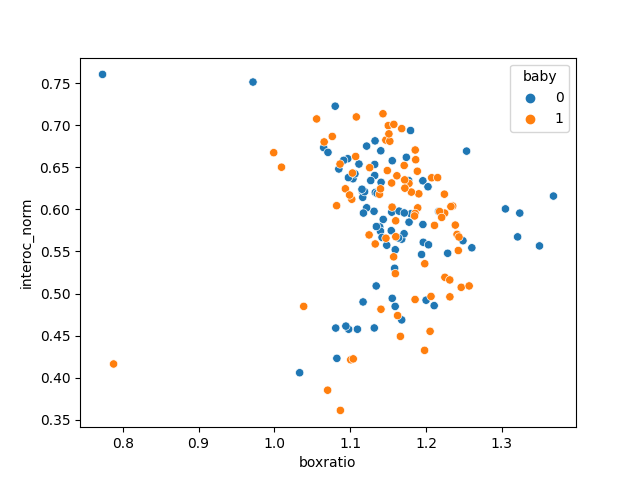
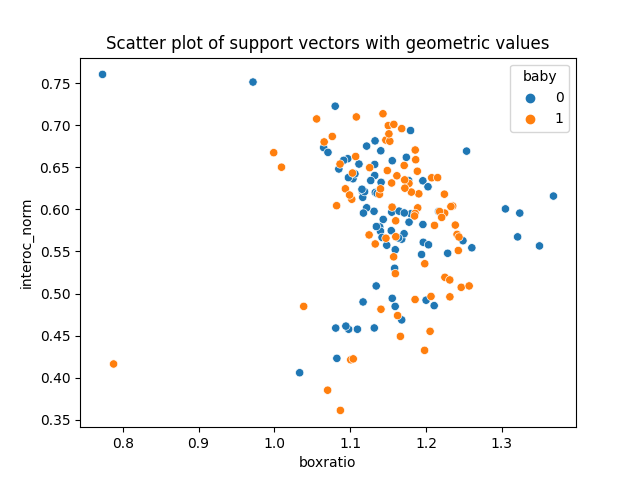
more scatter plots and classification reports
More scatter plots with different hue and add a meshgrid. Add more classification report.

Changed region(s): [[0.1562, 0.0625, 0.8438, 0.125]]

diff --git a/src/util/zw_svc_geometric_value.py b/src/util/zw_svc_geometric_value.py
@@ -6,6 +6,7 @@ from sklearn.svm import SVC
 from sklearn.model_selection import GridSearchCV, train_test_split
 import seaborn as sns
 import matplotlib.pyplot as plt
+import matplotlib.ticker as mtick
 
 # Get data
 df = pd.read_csv('data/merged_landmarks.csv')
@@ -21,8 +22,8 @@ svc_geometric = SVC(class_weight='balanced')
 model_geometric = make_pipeline(svc_geometric)
 
 param_grid_geometric = {'svc__C': [50, 100, 500, 1000],
-					   'svc__gamma': [0.05, 0.1, 0.5, 1, 5],
-					   'svc__kernel': ['rbf','linear', 'poly']}
+						'svc__gamma': [0.05, 0.1, 0.5, 1, 5],
+						'svc__kernel': ['rbf', 'linear', 'poly']}
 
 grid_geometric = GridSearchCV(model_geometric, param_grid_geometric, return_train_score=True, n_jobs=5, refit=True)
 grid_geometric.fit(X_train, y_train)
@@ -59,34 +60,53 @@ n_Support_vector = svc_trained.n_support_
 print("Number of support vector: ", n_Support_vector)
 Support_vector_index = svc_trained.support_
 
-
 # Plot geometric values and support vectors
 X_geometric['baby'] = y
 sns.scatterplot(data=X_geometric, x='boxratio', y='interoc_norm',
 				hue='baby',
 				legend=True)
+plt.title('Scatter plot of all samples with geometric values')
 plt.savefig('figs/Geometric_values')
 plt.show()
 
+# Plot predict vs true
+X_geometric['pre'] = svc_trained.predict(X_geometric.loc[:, ['boxratio', 'interoc_norm']])
+sns.scatterplot(data=X_geometric, x='boxratio', y='interoc_norm',
+				hue='pre',
+				legend=True)
+plt.title('Scatter plot of predict vs true')
+plt.savefig('figs/Geometric_values_pre_vs_true')
+plt.show()
+
+# Plot support vecrors
 support_vector = X_train.iloc[Support_vector_index][:]
 support_vector['baby'] = y_train.iloc[Support_vector_index][:]
 sns.scatterplot(data=support_vector, x='boxratio', y='interoc_norm',
 				hue='baby',
 				legend=True)
+plt.title('Scatter plot of support vectors with geometric values')
 plt.savefig('figs/Support_Vectors')
 plt.show()
 
 # Plot heatmap for geometric values
-interoc_norm = np.linspace(0.1, 0.9, 100)
-boxratio = np.linspace(0.7, 1.7, 100)
+interoc_norm = np.linspace(0.1, 0.9, 81)
+boxratio = np.linspace(0.7, 1.7, 101)
 heatmap = [['.'] * len(boxratio) for _ in range(len(interoc_norm))]
 
 for i in range(len(interoc_norm)):
 	for j in range(len(boxratio)):
-		heatmap[i][j] = model_best.predict([[boxratio[j], interoc_norm[i]]])[0]
+		heatmap[i][j] = model_best.predict(pd.DataFrame({'boxratio': [boxratio[j]],
+														'interoc_norm': [interoc_norm[i]]}))[0]
 heatmap = pd.DataFrame(heatmap)
-
+heatmap.columns = boxratio
+heatmap.index = interoc_norm
 sns.heatmap(data=heatmap,
-			cbar-False)
+			cbar=False,
+			xticklabels=10,
+			yticklabels=10).invert_yaxis()
+
+plt.xlabel('boxratio')
+plt.ylabel('interoc_norm')
+plt.title('Heatmap on meshgrid with geometric values')
 plt.savefig('figs/SVC_meshgrid_of_geometric')
 plt.show()

diff --git a/src/util/zw_svc_landmarks.py b/src/util/zw_svc_landmarks.py
@@ -52,14 +52,6 @@ plt.ylabel('true value')
 plt.savefig('figs/SVC_landmarks')
 plt.show()
 
-# Plot first two principle components
-pca = PCA(whiten=True, n_components=2)
-X_2d = pd.DataFrame(pca.fit_transform(X_original))
-X_2d['PCA1'], X_2d['PCA2'], X_2d['baby'] = X_2d[0], X_2d[1], y
-sns.lmplot(data=X_2d, x='PCA1', y='PCA2', hue='baby',legend=True, fit_reg=False)
-plt.savefig('figs/PCA_of_landmarks')
-plt.show()
-
 # Plot validation curve
 pca_vali = PCA(whiten=True)
 best_params_ = grid_original.best_params_
@@ -151,3 +143,17 @@ y_predict_2 = model_2.predict(X_test)
 print('Classification report for n_components = 2:\n')
 print(classification_report(y_test, y_predict_2, target_names=['adult', 'infant']))
 
+# Plot first two principal components
+pca = PCA(whiten=True, n_components=2)
+X_2d = pd.DataFrame(pca.fit_transform(X_original))
+X_2d['PCA1'], X_2d['PCA2'], X_2d['baby'] = X_2d[0], X_2d[1], y
+sns.lmplot(data=X_2d, x='PCA1', y='PCA2', hue='baby',legend=True, fit_reg=False)
+plt.title('First 2 components true value')
+plt.savefig('figs/PCA_of_landmarks_infant')
+plt.show()
+
+X_2d['pre'] = model_2.predict(X_original)
+sns.lmplot(data=X_2d, x='PCA1', y='PCA2', hue='pre',legend=True, fit_reg=False)
+plt.title('First 2 components predicted value')
+plt.savefig('figs/PCA_of_landmarks_predict')
+plt.show()

diff --git a/svc.md b/svc.md
@@ -1,44 +1,53 @@
 ## SVC
 
-Applied SVC to original data (landmarks) and to geometric values. 
+Applied SVC to landmarks and to geometric values. 
 
-### Original Data
+`GridSearchCV` in both methods are applied to the train set, and classification reports are generated from the test set.
 
-The original data consists of the position of landmarks. There are 68 landmarks and two indices, x and y, for each landmark so there are 136 predictors in total.
+### Landmarks
 
-Considering the number of predictors, we applied `PCA` first to reduce the dimensionality and then used `SVC` for classification. `GridSearchCV` is used to find the best hyperparameters for the SVC model.
+There are 68 landmarks and two axis, x and y, for each landmark so there are 136 predictors in total.
 
-Bellow are the hyperparameters of `PCA` and `SVC`, and performance on original landmarks.
+Considering the number of predictors, we first applied `PCA` to reduce the number of dimension and then used `SVC` for classification. `GridSearchCV` is used to find the best hyperparameters for both `PCA` and `SVC`.
 
-<img src="figs/SVC_performance_landmarks.png">
+Bellow are the hyperparameters of `PCA` and `SVC`, and classification report on landmarks.
 
-The score of original landmarks could be an upper bound for model performance since it contains all information in the landmarks. 
+<img src="figs/SVC_best_landmarks.png">
 
-This performance is already high enough. Even if it might be further improved, the improvement will be tiny. Preprocessing like centering, rotating to upright position and scaling are needed to directly use the landmarks.
+The score of landmarks could be an upper bound for model performance since it contains all information in the landmarks. 
+
+This performance is already high enough. Even if it might be further improved, the improvement will be tiny. Preprocessing like centering, rotating to upright position and scaling are needed here.
 
 Bellow is the confusion matrix of classification.
 
 <img src="figs/SVC_landmarks.png">
 
-This is a scatter plot of the first two principal components. There is no obvious pattern visible in the plot.
-
-<img src="figs/PCA_of_landmarks.png">
-
 Validation curve on `n_components`. The `F1_score` is actually pretty good when `n_components=15`
 
 <img src="figs/SVC_vali_landmarks.png">
 
+So we printed more classification reports with different number of principal component. Other hyperparameters are the same as in the previous model.
+
+<img src="figs/SVC_other_landmarks.png">
+
+The score for `n_components = 15` is still pretty good, and `n_components = 5` is not that bad. But `n_components = 2` is simply guessing for the infant samples.
+
+As the scatter plot of the first two principals shows bellow, the model with `n_components = 2` just predict the lower half part to be andult.
+
+<img src="figs/PCA_of_landmarks_infant.png">
+<img src="figs/PCA_of_landmarks_predict.png">
+
 ### Geometric Values
 
-The two geometric values used here are `boxratio` and `interoclar_norm`. They correspond to the `box width / box height` and `box size / interocular didtance` in `TABLE II` of Dr. Wang's paper. 
+Now we use the two geometric values, `boxratio` and `interoclar_norm`, as predictors. They correspond to the `box width / box height` and `box size / interocular didtance` in `TABLE II` of Dr. Wan's paper. 
 
-Bellow are the hyperparameters of `SVC`, and performance on geometric values. The last lines shows the number of support vectors in the train data.
+Bellow are the hyperparameters of `SVC`, and performance on geometric values. The classification report is generated on the test set, and the last lines shows the number of support vectors in the train set with 736 samples.
 
 <img src="figs/SVC_model_geometric.png">
 
-The performance on the two geometric values is nice and this could serve as a lower bound since it requires only the ratio of box width to box height and box size to interocular distance.
+The performance on the two geometric values is nice and it's between the performance with `n_components = 5` and `n_components = 15` in the model using landmarks. This could serve as a lower bound since it requires only the ratio of box width to box height and box size to interocular distance.
 
-Little preprocessing is needed givens the bounding box and landmarks. It’s also more interpretable as we know the meaning of the predictors. More predictors might be added to improve its performance.
+Little preprocessing is needed givens the bounding box and landmarks. It’s also more interpretable as we know the meaning of the predictors.
 
 Bellow is the confusion matrix of classification.
 
@@ -48,9 +57,13 @@ Here is a scatter plot with `boxratio` and `interoc_norm` as axis. The points te
 
 <img src="figs/Geometric_values.png">
 
-The pattern in the scatter plot above is quite obvious, so we also circled the support vectors wanting to see if there still exists any pattern.
+And if we draw the same scatter plot with predicted value vs true value. 
+<img src="figs/Geometric_values_pre_vs_true.png">
 
-Unfortunately, there are too many support vectors so the picture is messy, and no pattern is visible here.
+Same plot on a meshgrid.
+<img src="figs/SVC_meshgrid_of_geometric.png">
 
+
+The support vectors in the train set. They tend to form a curved boundary between infant and adult samples. 
 <img src="figs/Support_Vectors.png">
 
